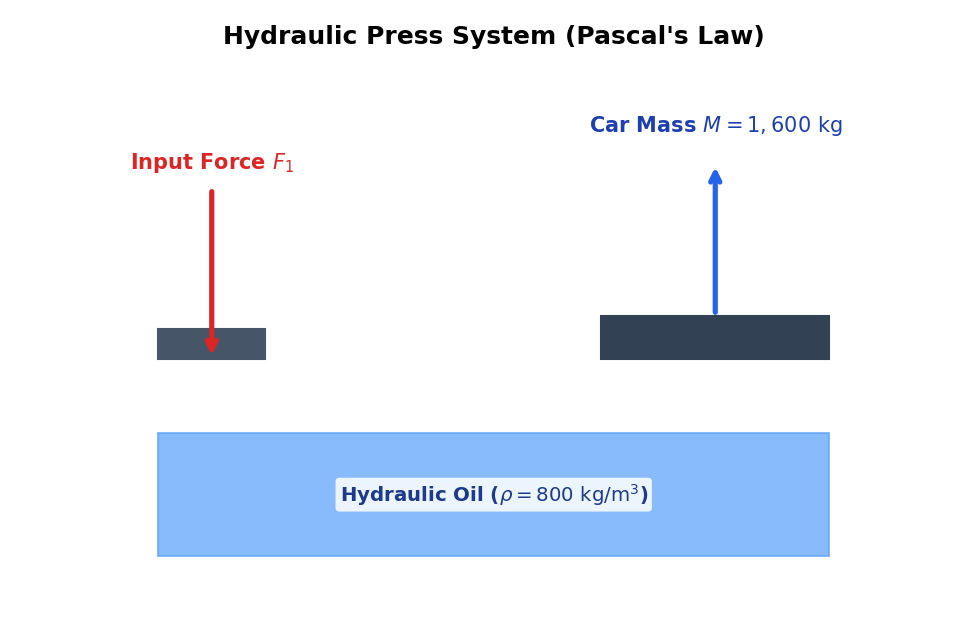
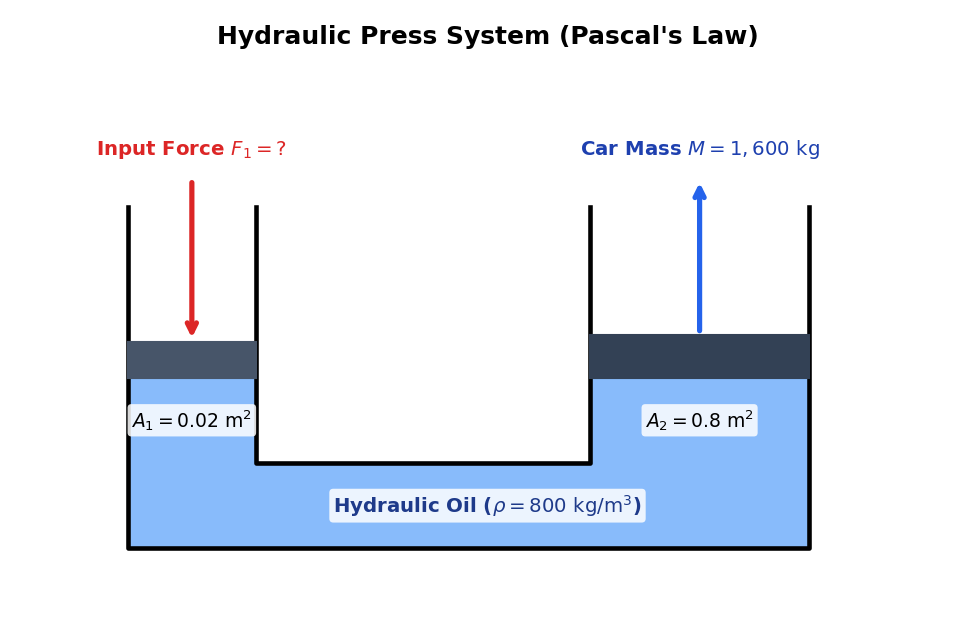
Update and deploy web app

Changed region(s): [[0.0923, 0.2111, 0.8615, 0.9048], [0.2154, 0.0302, 0.8, 0.0905], [0.5846, 0.181, 0.8615, 0.2714]]

diff --git a/tools/generate_all_quiz_diagrams.py b/tools/generate_all_quiz_diagrams.py
@@ -1708,32 +1708,43 @@ def create_phy_m6_ch15_hydraulic():
     fig, ax = plt.subplots(figsize=(6.5, 4.2), dpi=150)
     ax.axis('off')
     
-    # Hydraulic fluid
-    fluid = patches.Polygon([(-2.5, -0.8), (2.5, -0.8), (2.5, -1.8), (-2.5, -1.8)], color='#60A5FA', alpha=0.75, zorder=1)
-    ax.add_patch(fluid)
+    # Outer U-Tube Wall Frame
+    wall_x = [-2.8, -2.8, -1.8, -1.8, 0.8, 0.8, 2.5, 2.5]
+    wall_y = [1.2, -1.2, -1.2, -1.2, -1.2, -1.2, -1.2, 1.2]
     
-    # Pistons
-    piston1 = patches.Rectangle((-2.5, -0.2), 0.8, 0.25, color='#475569', zorder=3)
-    piston2 = patches.Rectangle((0.8, -0.2), 1.7, 0.35, color='#334155', zorder=3)
+    # Hydraulic fluid polygon with proper connected U-pipe shape
+    fluid_path = patches.Polygon([
+        (-2.8, 0.0), (-2.8, -1.2), (2.5, -1.2), (2.5, 0.0),
+        (0.8, 0.0), (0.8, -0.6), (-1.8, -0.6), (-1.8, 0.0)
+    ], color='#60A5FA', alpha=0.75, zorder=1)
+    ax.add_patch(fluid_path)
+    
+    # Pipe Outer Outlines
+    ax.plot([-2.8, -2.8, 2.5, 2.5], [1.2, -1.2, -1.2, 1.2], 'k-', lw=2.2, zorder=3)
+    ax.plot([-1.8, -1.8, 0.8, 0.8], [1.2, -0.6, -0.6, 1.2], 'k-', lw=2.2, zorder=3)
+    
+    # Pistons inside the tubes
+    piston1 = patches.Rectangle((-2.8, 0.0), 1.0, 0.25, color='#475569', zorder=4)
+    piston2 = patches.Rectangle((0.8, 0.0), 1.7, 0.30, color='#334155', zorder=4)
     ax.add_patch(piston1)
     ax.add_patch(piston2)
     
-    # Force Arrows & Labels (Show only given initial values, no solution answers)
-    ax.annotate('', xy=(-2.1, -0.2), xytext=(-2.1, 1.2),
+    # Force Arrows & Labels
+    ax.annotate('', xy=(-2.3, 0.25), xytext=(-2.3, 1.4),
                 arrowprops=dict(arrowstyle='->', lw=2.5, color='#DC2626'))
-    add_label_box(ax, r'Input Force $F_1$', -2.1, 1.4, color='#DC2626', fontsize=10)
-    add_label_box(ax, r'Small Piston Area $A_1 = 0.02\text{ m}^2$', -2.1, -0.5, color='white', fontsize=9)
+    add_label_box(ax, r'Input Force $F_1 = ?$', -2.3, 1.6, color='#DC2626', fontsize=9.5)
+    add_label_box(ax, r'$A_1 = 0.02\text{ m}^2$', -2.3, -0.3, color='black', fontsize=9)
     
-    ax.annotate('', xy=(1.65, 1.4), xytext=(1.65, 0.15),
+    ax.annotate('', xy=(1.65, 1.4), xytext=(1.65, 0.3),
                 arrowprops=dict(arrowstyle='->', lw=2.5, color='#2563EB'))
-    add_label_box(ax, r'Car Mass $M = 1,600\text{ kg}$', 1.65, 1.7, color='#1E40AF', fontsize=10)
-    add_label_box(ax, r'Large Piston Area $A_2 = 0.8\text{ m}^2$', 1.65, -0.5, color='white', fontsize=9)
+    add_label_box(ax, r'Car Mass $M = 1,600\text{ kg}$', 1.65, 1.6, color='#1E40AF', fontsize=9.5)
+    add_label_box(ax, r'$A_2 = 0.8\text{ m}^2$', 1.65, -0.3, color='black', fontsize=9)
     
     # Fluid Label
-    add_label_box(ax, r'Hydraulic Oil ($\rho = 800\text{ kg/m}^3$)', 0, -1.3, color='#1E3A8A', fontsize=9.5)
+    add_label_box(ax, r'Hydraulic Oil ($\rho = 800\text{ kg/m}^3$)', 0, -0.9, color='#1E3A8A', fontsize=9.5)
     
-    ax.set_xlim(-3.4, 3.4)
-    ax.set_ylim(-2.2, 2.2)
+    ax.set_xlim(-3.6, 3.6)
+    ax.set_ylim(-1.6, 2.2)
     ax.set_title('Hydraulic Press System (Pascal\'s Law)', fontsize=12, fontweight='bold', pad=10)
     plt.tight_layout()
     plt.savefig(os.path.join(output_dir, 'phy_m6_ch15_hydraulic.png'), dpi=150)
@@ -1743,37 +1754,39 @@ def create_phy_m6_ch15_utube():
     fig, ax = plt.subplots(figsize=(6.0, 4.5), dpi=150)
     ax.axis('off')
     
-    # Left column (Oil), Right column (Water)
-    ax.plot([-1.5, -1.5, -0.5, -0.5], [2.2, -1.0, -1.0, -1.5], 'k-', lw=2)
-    ax.plot([0.5, 0.5, 1.5, 1.5], [-1.5, -1.0, -1.0, 2.2], 'k-', lw=2)
-    ax.plot([-0.5, 0.5], [-1.5, -1.5], 'k-', lw=2)
-    ax.plot([-1.5, -0.5], [-1.0, -1.0], 'k-', lw=2)
-    ax.plot([0.5, 1.5], [-1.0, -1.0], 'k-', lw=2)
+    # Outer U-Tube Wall Frame (Continuous U-pipe)
+    ax.plot([-1.6, -1.6, 1.6, 1.6], [2.2, -1.2, -1.2, 2.2], 'k-', lw=2.5, zorder=4)
+    ax.plot([-0.6, -0.6, 0.6, 0.6], [2.2, -0.4, -0.4, 2.2], 'k-', lw=2.5, zorder=4)
     
-    # Water bottom & right column
-    water = patches.Polygon([(-1.5, -1.0), (1.5, -1.0), (1.5, 0.8), (0.5, 0.8), (0.5, -0.5), (-0.5, -0.5), (-0.5, -1.0)], color='#3B82F6', alpha=0.7, zorder=1)
-    ax.add_patch(water)
+    # Water filling (Bottom U and Right column up to y=0.8)
+    water_polygon = patches.Polygon([
+        (-1.6, -0.4), (-1.6, -1.2), (1.6, -1.2), (1.6, 0.8),
+        (0.6, 0.8), (0.6, -0.4)
+    ], color='#3B82F6', alpha=0.75, zorder=1)
+    ax.add_patch(water_polygon)
     
-    # Oil left column
-    oil = patches.Polygon([(-1.5, -0.5), (-0.5, -0.5), (-0.5, 1.4), (-1.5, 1.4)], color='#F59E0B', alpha=0.8, zorder=2)
-    ax.add_patch(oil)
+    # Oil filling (Left column from y=-0.4 up to y=1.4)
+    oil_polygon = patches.Polygon([
+        (-1.6, -0.4), (-1.6, 1.4), (-0.6, 1.4), (-0.6, -0.4)
+    ], color='#F59E0B', alpha=0.85, zorder=2)
+    ax.add_patch(oil_polygon)
     
-    # Interface line
-    ax.plot([-1.6, 1.6], [-0.5, -0.5], 'r--', lw=1.5, zorder=4)
-    add_label_box(ax, 'Interface Reference Level', 0, -0.5, color='#DC2626', fontsize=8.5)
+    # Interface Reference Level at y = -0.4
+    ax.plot([-2.0, 2.0], [-0.4, -0.4], 'r--', lw=1.5, zorder=5)
+    add_label_box(ax, 'Interface Reference Level', 0.0, -0.4, color='#DC2626', fontsize=8.5)
     
     # Height indicators
-    ax.annotate('', xy=(-1.8, 1.4), xytext=(-1.8, -0.5), arrowprops=dict(arrowstyle='<->', lw=1.5, color='#B45309'))
-    add_label_box(ax, r'$h_{\text{oil}} = 15\text{ cm}$', -2.5, 0.45, color='#B45309', fontsize=9)
+    ax.annotate('', xy=(-1.9, 1.4), xytext=(-1.9, -0.4), arrowprops=dict(arrowstyle='<->', lw=1.5, color='#B45309'))
+    add_label_box(ax, r'$h_{\text{oil}} = 15\text{ cm}$', -2.7, 0.5, color='#B45309', fontsize=9)
     
-    ax.annotate('', xy=(1.8, 0.8), xytext=(1.8, -0.5), arrowprops=dict(arrowstyle='<->', lw=1.5, color='#1D4ED8'))
-    add_label_box(ax, r'$h_{\text{water}} = 12\text{ cm}$', 2.5, 0.15, color='#1D4ED8', fontsize=9)
+    ax.annotate('', xy=(1.9, 0.8), xytext=(1.9, -0.4), arrowprops=dict(arrowstyle='<->', lw=1.5, color='#1D4ED8'))
+    add_label_box(ax, r'$h_{\text{water}} = 12\text{ cm}$', 2.7, 0.2, color='#1D4ED8', fontsize=9)
     
-    add_label_box(ax, r'Oil Column ($\rho_{\text{oil}} = ?$)', -1.0, 1.7, color='#92400E', fontsize=9.5)
-    add_label_box(ax, r'Water Column ($\rho_{\text{water}} = 1000\text{ kg/m}^3$)', 1.0, 1.1, color='#1E40AF', fontsize=9)
+    add_label_box(ax, r'Oil ($\rho_{\text{oil}} = ?$)', -1.1, 1.7, color='#92400E', fontsize=9.5)
+    add_label_box(ax, r'Water ($\rho = 1000\text{ kg/m}^3$)', 1.1, 1.1, color='#1E40AF', fontsize=9)
     
-    ax.set_xlim(-3.2, 3.2)
-    ax.set_ylim(-1.8, 2.5)
+    ax.set_xlim(-3.5, 3.5)
+    ax.set_ylim(-1.6, 2.5)
     ax.set_title('U-Tube Manometer with Immiscible Liquids', fontsize=12, fontweight='bold', pad=10)
     plt.tight_layout()
     plt.savefig(os.path.join(output_dir, 'phy_m6_ch15_utube.png'), dpi=150)
